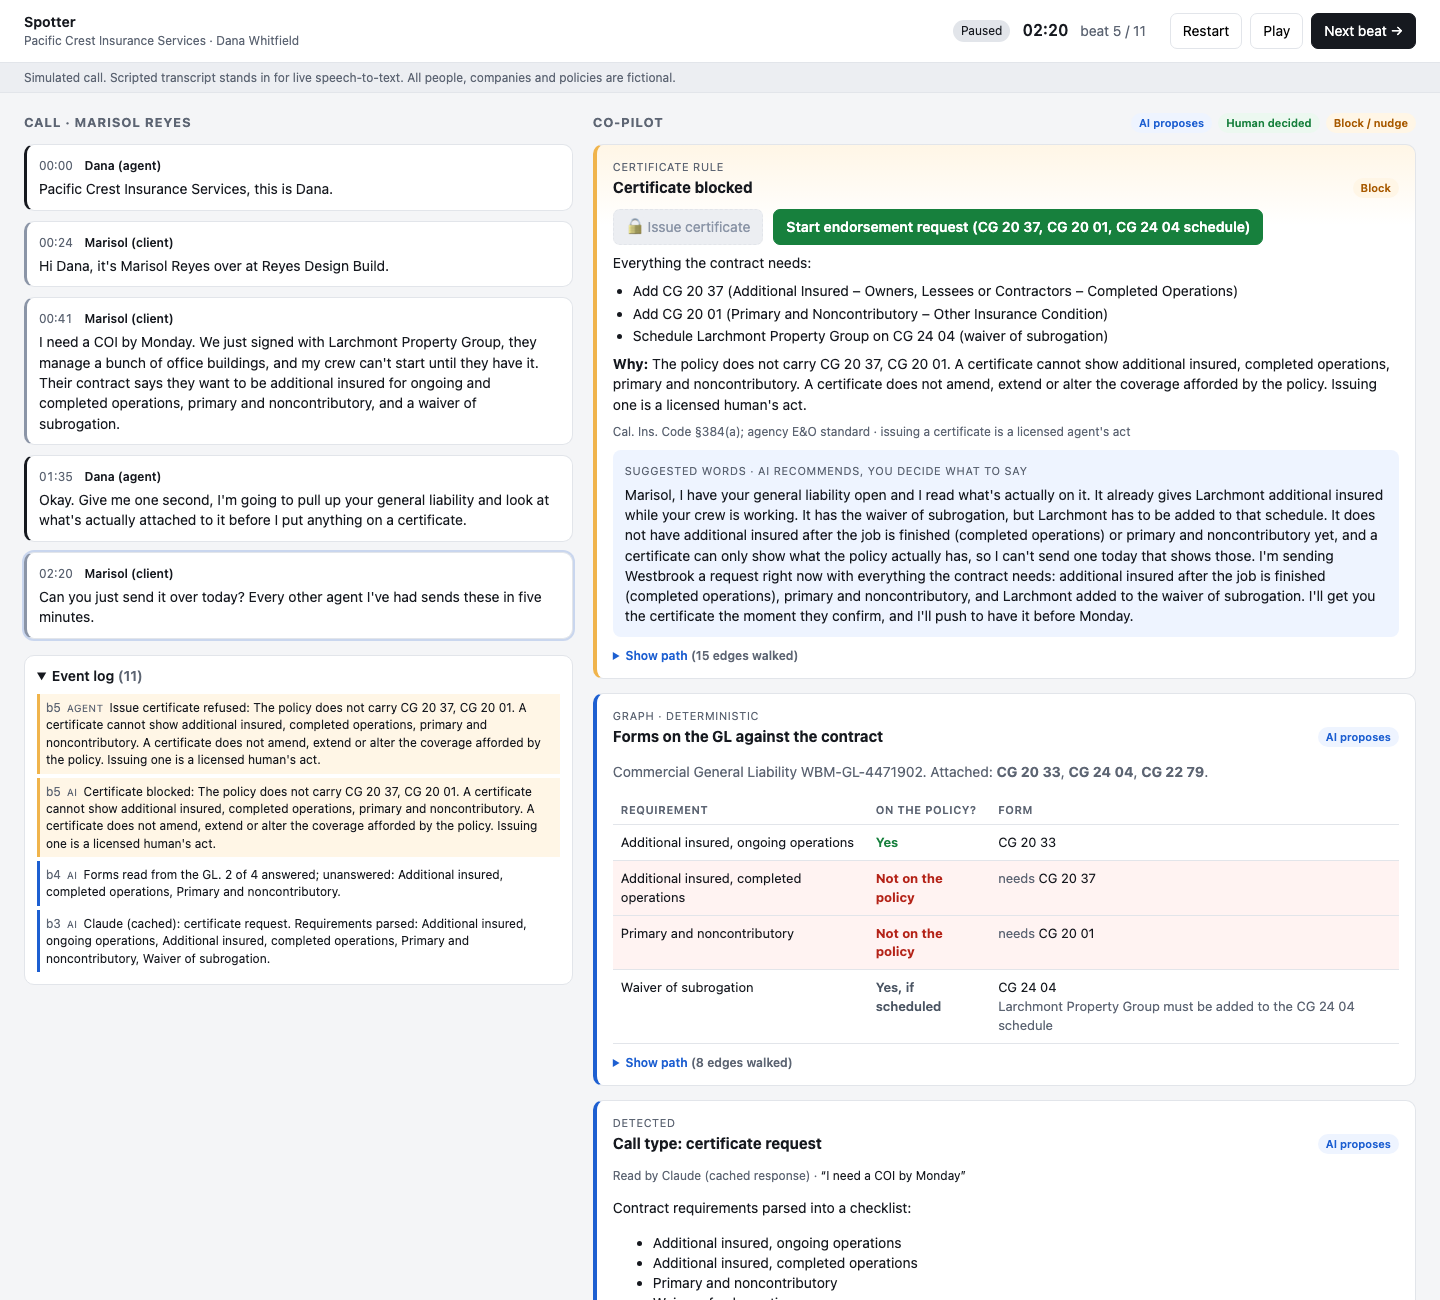
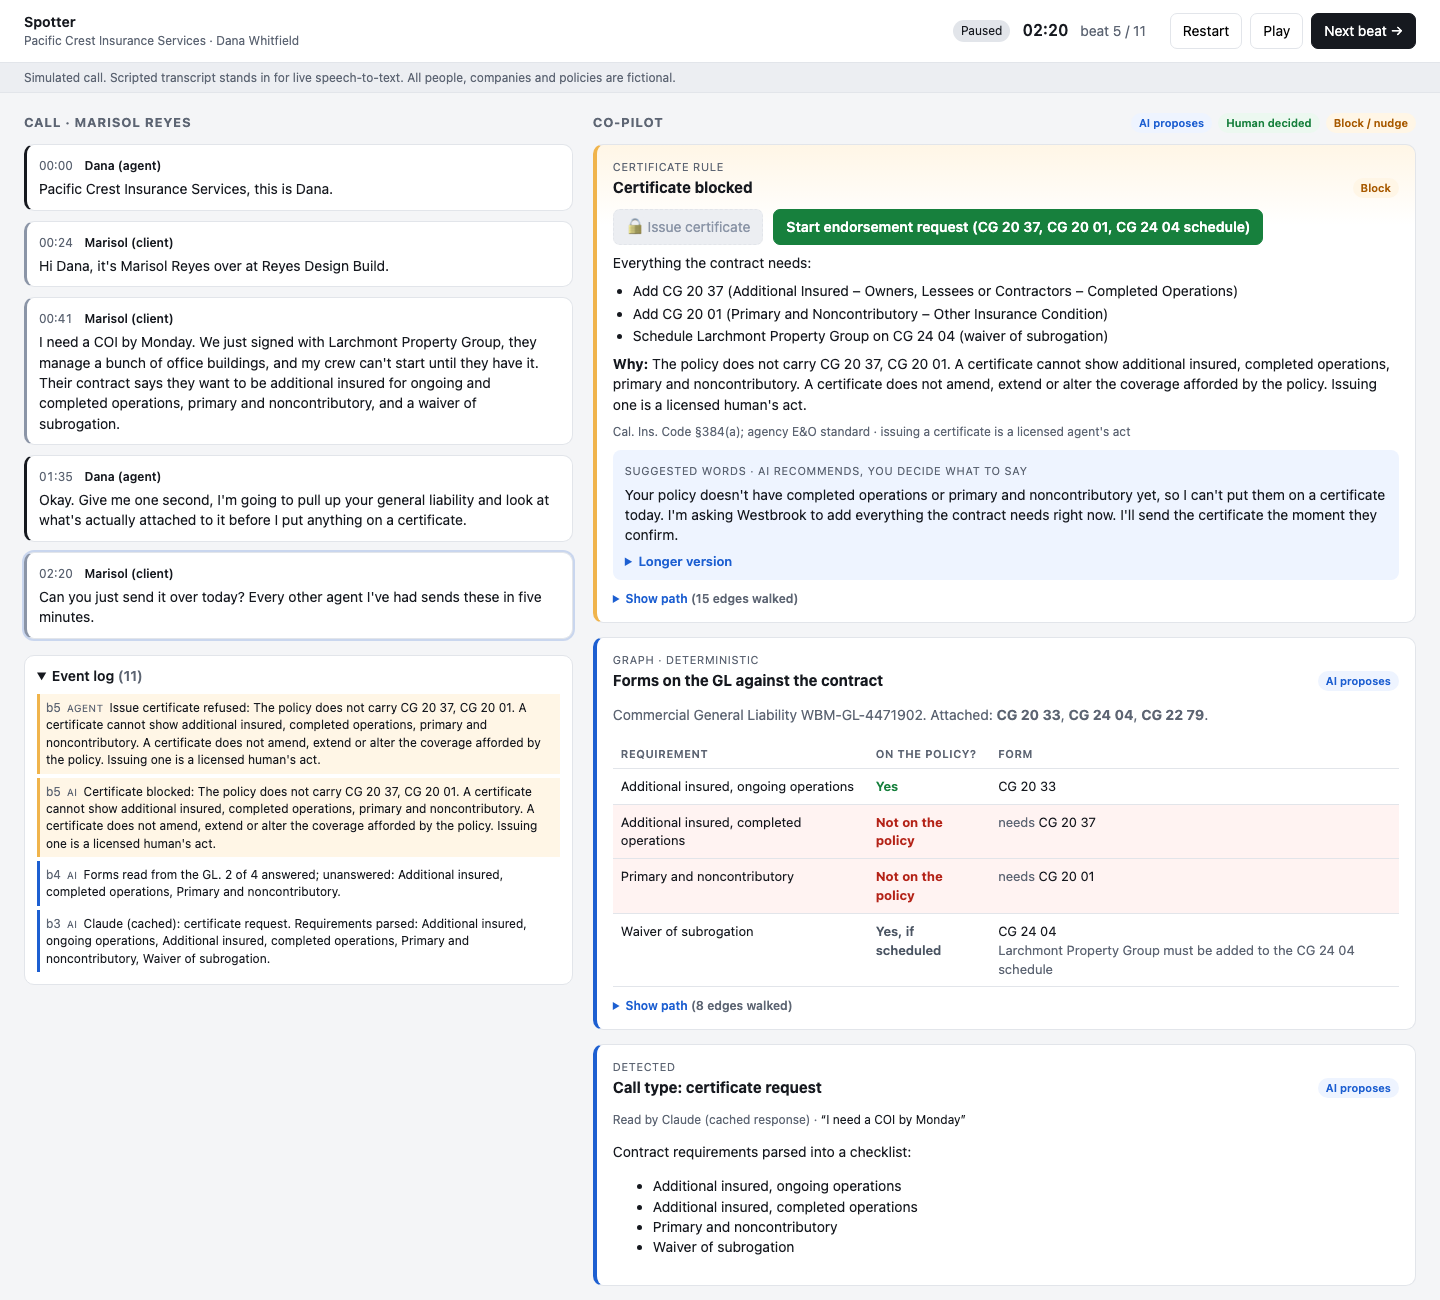
Cap the suggested words at three sentences
The certificate card's suggested words were a paragraph; an account manager
reads them while the client waits. The card now shows three sentences, 39
words, with the full explanation behind a "Longer version" toggle. A test
holds every suggested-words block to three sentences and fifty words. The
quote request's docstring records why the D-1 gate sits there and where it
moves for an agency that gets indications before an application.

diff --git a/app/static/app.css b/app/static/app.css
@@ -104,6 +104,8 @@ tr.st-unanswered { background: #fff3f2; }
 .reason { margin: 6px 0; }
 .words { background: var(--blue-bg); border-radius: 8px; padding: 10px 12px; margin-top: 10px; }
 .words p { margin: 4px 0 0; }
+.longer { margin-top: 6px; font-size: 13px; }
+.longer summary { cursor: pointer; color: var(--blue); font-weight: 600; }
 
 .path { margin-top: 10px; font-size: 12px; }
 .path summary { cursor: pointer; color: var(--blue); font-weight: 600; }

diff --git a/app/templates/_cards.html b/app/templates/_cards.html
@@ -126,7 +126,8 @@
   <p class="cite">{{ a.citation }} · issuing a certificate is a licensed agent's act</p>
   <div class="words">
     <span class="kicker">Suggested words · AI recommends, you decide what to say</span>
-    <p>{{ card.words }}</p>
+    <p>{{ card.words.short }}</p>
+    <details class="longer"><summary>Longer version</summary><p>{{ card.words.long }}</p></details>
   </div>
   {{ path(card.path) }}
 

diff --git a/app/engine.py b/app/engine.py
@@ -253,7 +253,13 @@ def decide_product(state: dict, status: str) -> dict:
 
 
 def request_quote(state: dict) -> tuple[dict, dict]:
-    """Human-only. A non-admitted submission is an application, and the D-1 is signed at application."""
+    """Human-only. A non-admitted submission is an application, and the D-1 is signed at application.
+
+    The gate sits on the quote request because a quote to a non-admitted market is the application
+    (Cal. Ins. Code §1764.1(a)(1): signature "at the time of accepting an application"). An agency
+    that gets indications before an application would move this check, unchanged, to the action
+    that submits the application.
+    """
     g = world(state)
     rec = recommendation(g, state)
     if not rec:
@@ -409,7 +415,32 @@ def path_view(g: nx.MultiDiGraph, path: q.Path) -> list[dict]:
     return rows
 
 
-def suggested_words(g: nx.MultiDiGraph, rows: list[dict]) -> str:
+WORDS_CAP = 50  # words; the agent reads this while the client waits. At most three sentences.
+
+SHORT_PHRASE = {"req:ai-ongoing": "additional insured for ongoing work",
+                "req:ai-completed": "completed operations",
+                "req:primary-noncontributory": "primary and noncontributory",
+                "req:waiver-subrogation": "the waiver of subrogation"}
+
+
+def suggested_words(g: nx.MultiDiGraph, rows: list[dict]) -> dict:
+    """What the agent can say: a short version to read on the call, and the full explanation behind a toggle."""
+    gaps = [SHORT_PHRASE[r["requirement"]] for r in rows if r["status"] == "unanswered"]
+    sched = [r for r in rows if r["status"] == "if_scheduled"]
+    if gaps:
+        short = (f"Your policy doesn't have {' or '.join(gaps)} yet, so I can't put "
+                 f"{'it' if len(gaps) == 1 else 'them'} on a certificate today. "
+                 "I'm asking Westbrook to add everything the contract needs right now. "
+                 "I'll send the certificate the moment they confirm.")
+    elif sched:
+        short = ("Larchmont needs to be added to your waiver schedule, and I'm asking Westbrook for that now. "
+                 "I'll send the certificate the moment they confirm.")
+    else:
+        short = "Everything the contract asks for is on your policy."
+    return {"short": short, "long": _long_words(rows)}
+
+
+def _long_words(rows: list[dict]) -> str:
     def phrase(r):
         return {"req:ai-ongoing": "additional insured while your crew is working",
                 "req:ai-completed": "additional insured after the job is finished (completed operations)",

diff --git a/tests/test_app.py b/tests/test_app.py
@@ -136,3 +136,15 @@ def test_wrap_drafts_stay_in_review_until_accepted(client):
     assert re.search(r'class="card tone-green" id="card-draft-endorsement-request"', page)
     assert "Accepted by the agent with edits. Not sent" in page
     assert re.search(r'class="card tone-blue" id="card-draft-follow-up-email"', page)
+
+
+def test_suggested_words_fit_the_cap(client):
+    """The agent reads these while the client waits: three sentences, about fifty words, at most."""
+    from app.engine import WORDS_CAP
+    page = client.post("/jump/7", headers=HX).text
+    blocks = re.findall(r'<div class="words">\s*<span class="kicker">[^<]*</span>\s*<p>(.*?)</p>', page, re.S)
+    assert len(blocks) == 2  # the certificate's suggested words and the exposure's next best question
+    for text in map(html.unescape, blocks):
+        assert len(text.split()) <= WORDS_CAP, text
+        assert len(re.findall(r"[.?!](\s|$)", text)) <= 3, text
+    assert "Longer version" in page
